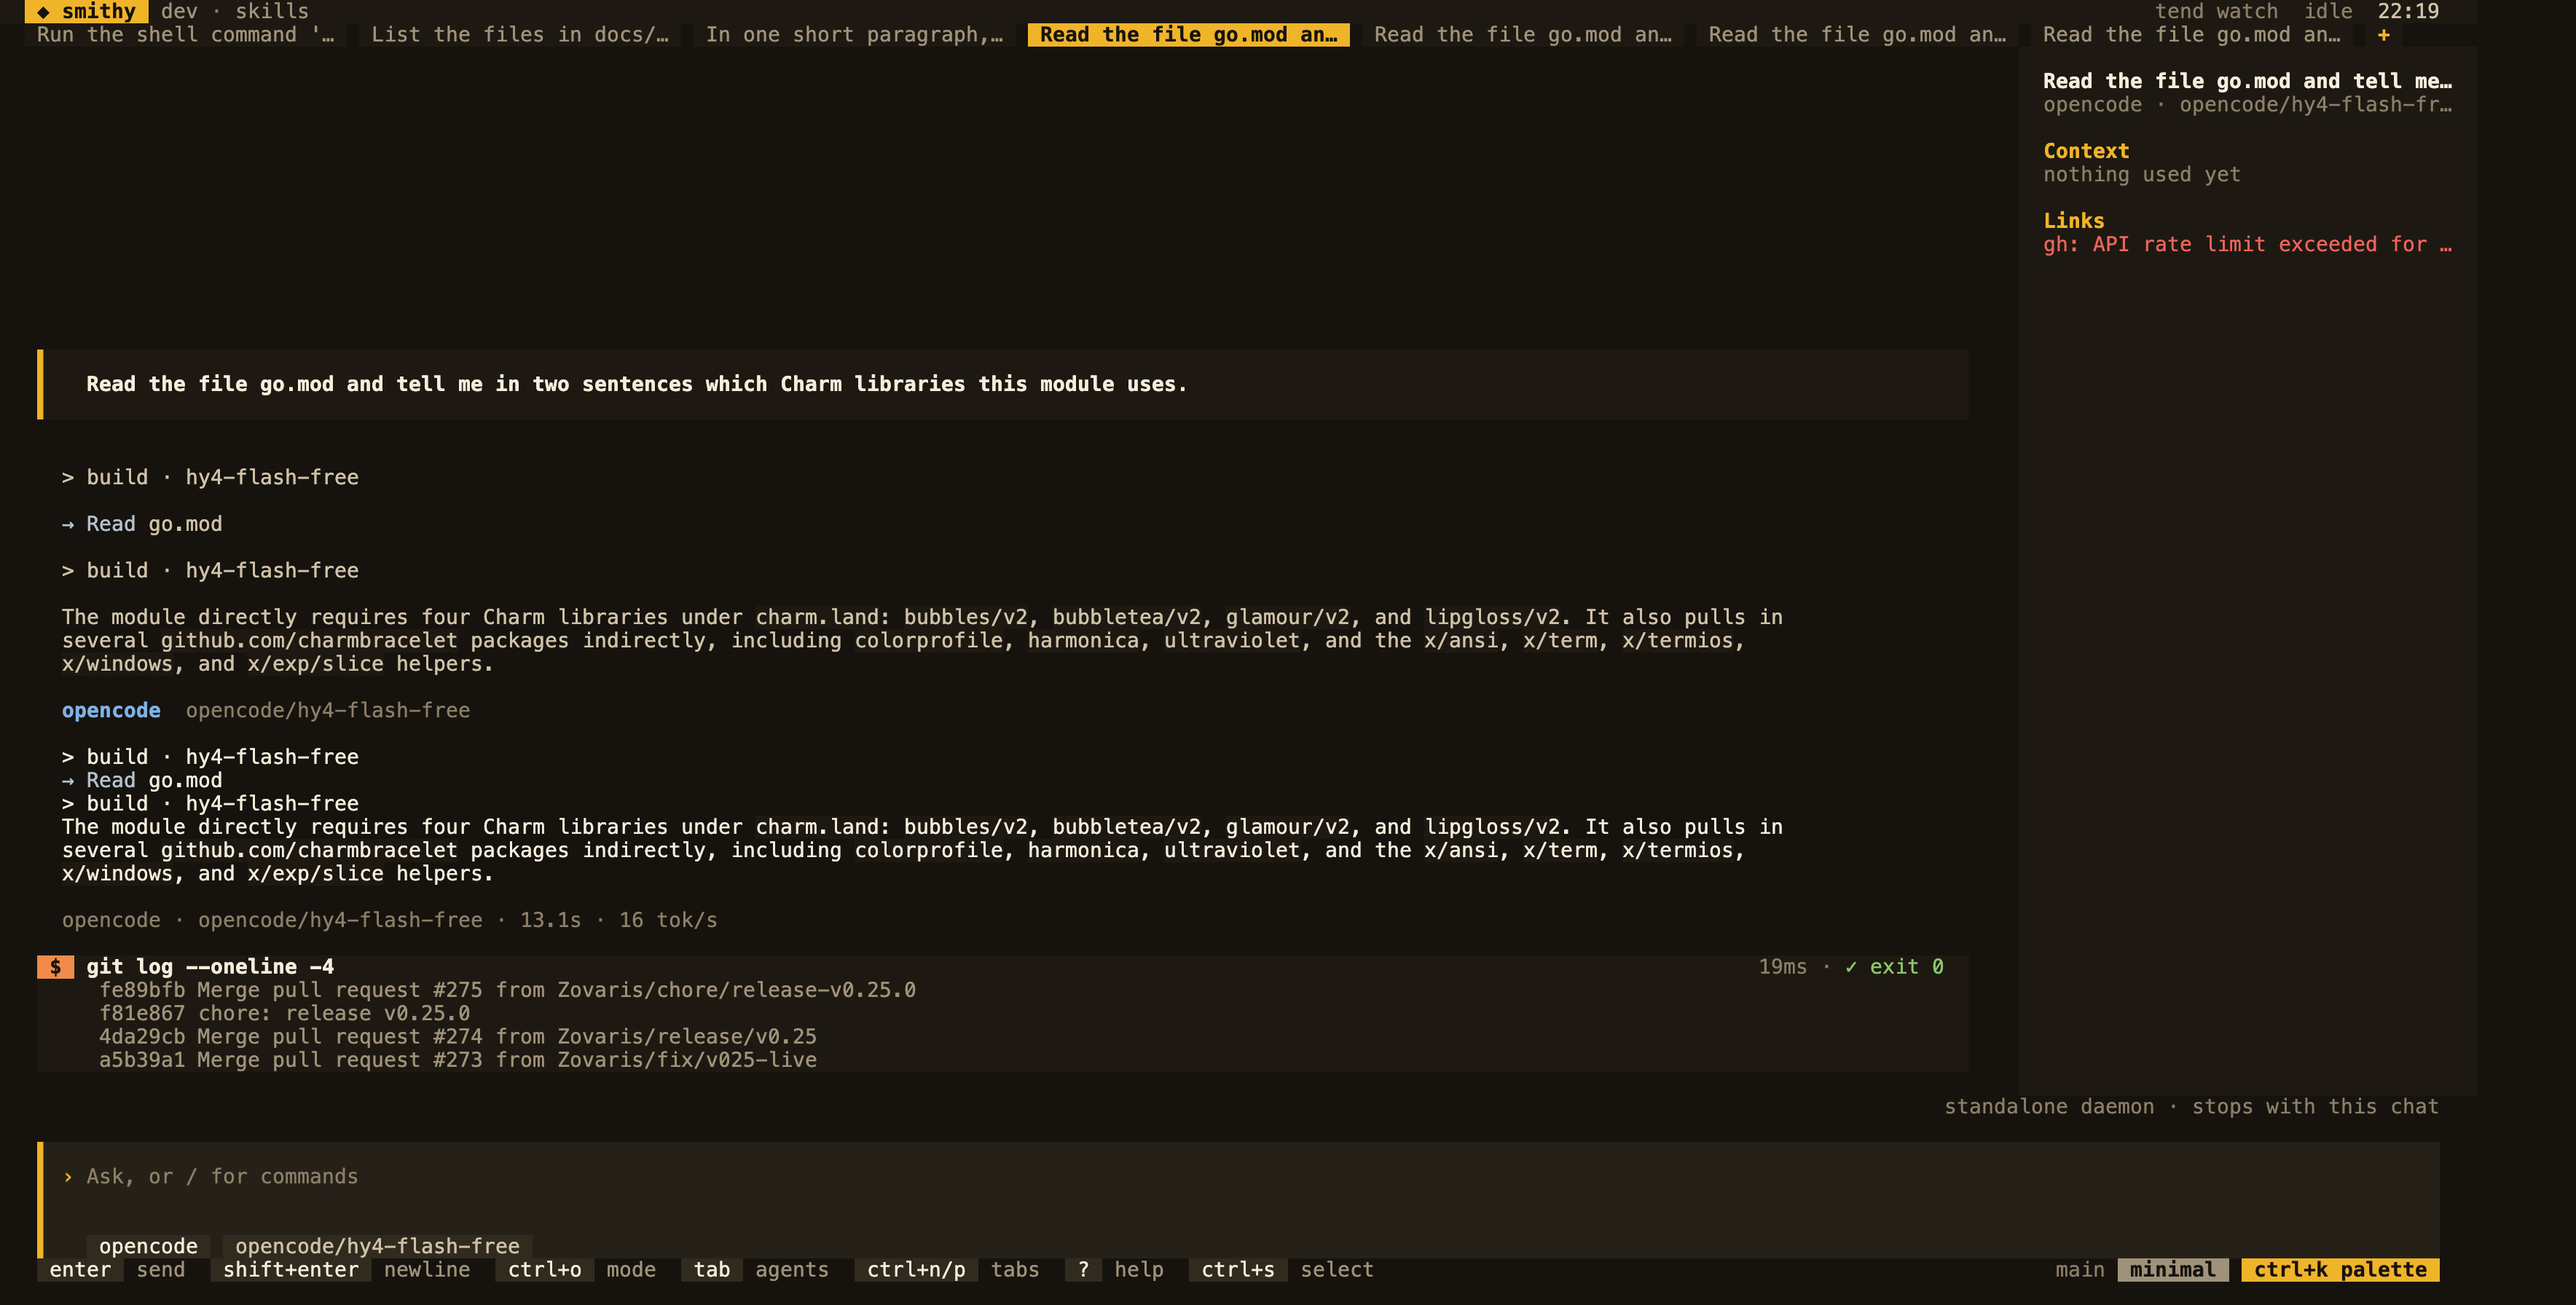
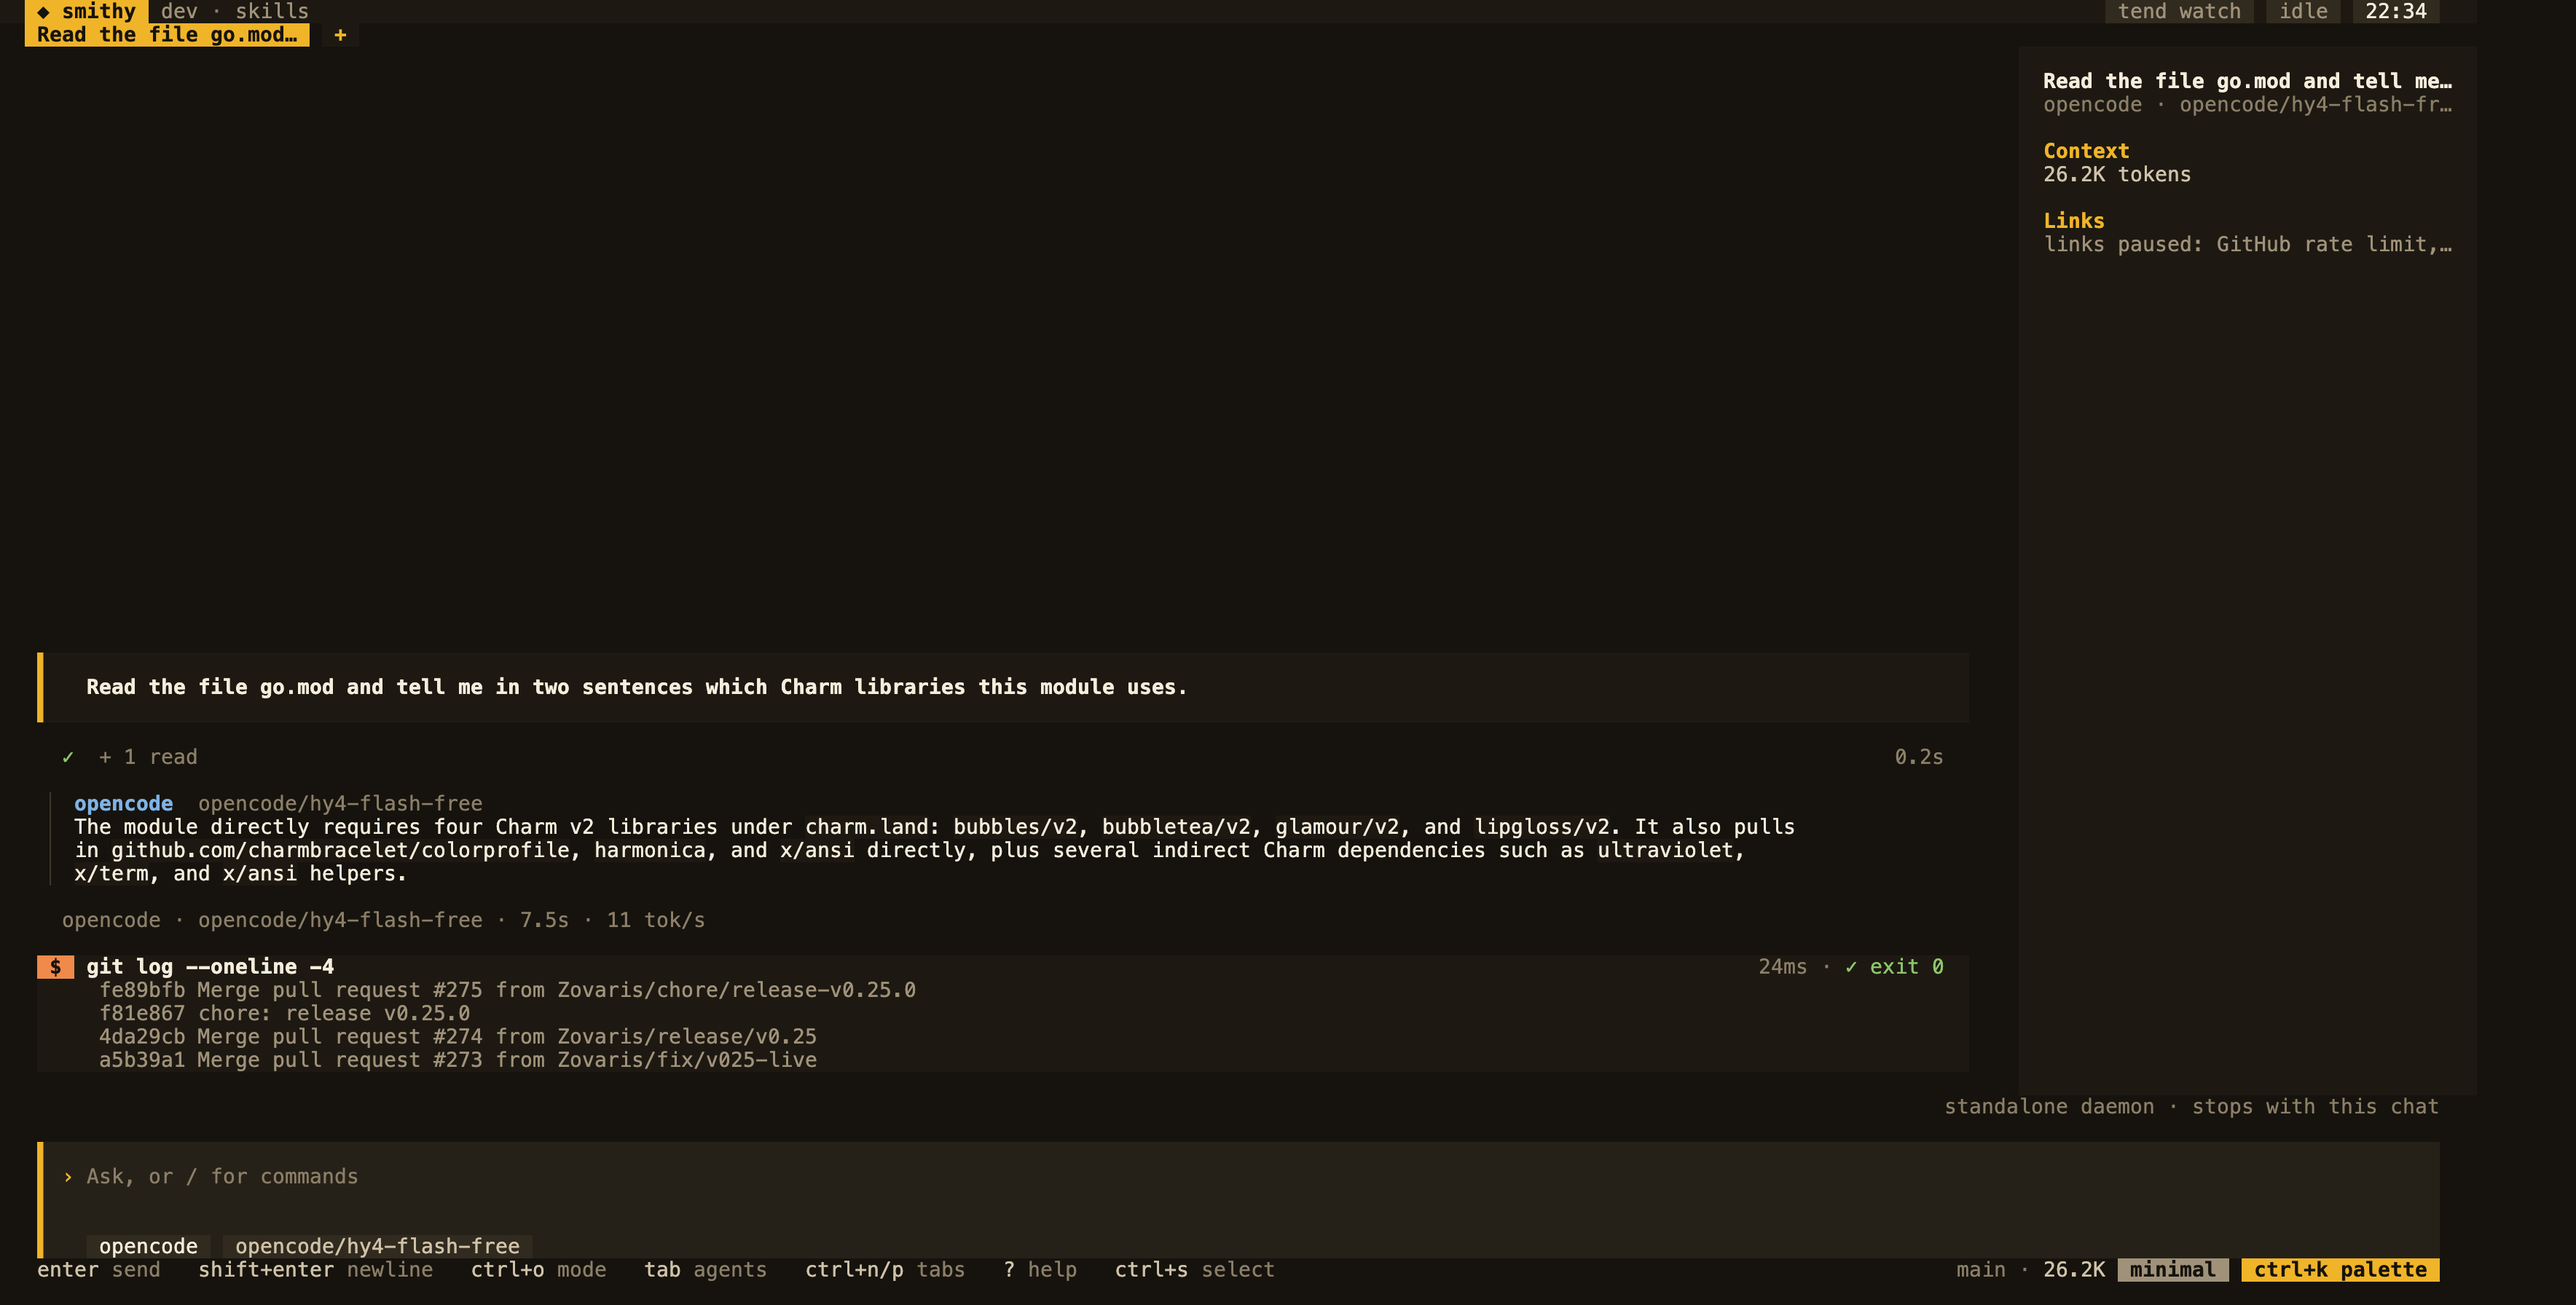
docs: design rules, changelog and screenshots for the Slab polish

diff --git a/docs/design/tui.md b/docs/design/tui.md
@@ -83,6 +83,8 @@ a UTF-8 locale the ASCII set applies.
 ## Layout
 
 Rhythm: 2-col gutter, 3-col indent, 1 blank row between blocks, tool rows tight, 1-col chip gaps.
+An agent answer opens with its name (Info, bold) and the model (Dim) and runs beside a thin Border
+gutter `▏`; text streamed in parts becomes that one answer, never repeated.
 Sidebar (38 cols, Raised) shows only at 120 cols and wider.
 
 80x24:
@@ -175,18 +177,18 @@ Status vocabulary, the only one: `▪` state mark (Ok, Warn, Err, Dim), `▫` of
 
 | Component | Anatomy | States |
 |---|---|---|
-| Header | Raised row; Accent ` ◆ smithy ` block, version and project Dim; right: tend, spinner, clock | default; running (spinner) |
-| Tab chip | ` name ` on Raised | default Muted; focus Strong; active Accent bg, Surface fg, bold; running spinner; waiting Warn `?`; failed `▪` Err |
+| Header | Raised row; Accent ` ◆ smithy ` block, version and project Muted; right: chips on Overlay for tend, state (`idle`, spinner `N running`, Warn `? waiting on you`) and the clock | default; running (spinner); waiting (Warn chip) |
+| Tab chip | ` title ` on Raised; title is the session title without polite openings, cut at a word near 24 cells or middle-ellipsed; `«` `»` when tabs overflow, the active one kept in view | default Muted; active Accent bg, Surface fg, bold; running spinner |
 | User turn | Raised band, `▌` Accent, Strong bold, time Dim right | default |
 | Agent turn | name Info bold, model and effort Dim, body Text | default; running spinner after name |
 | Tool row | `▪ Tool  args` Info, result right | running spinner; done `✓` Ok; failed `✗` Err; disabled Dim |
 | Shell band | Raised, Warn `$` chip, command Strong bold, output Muted, `exit n · t` right | running spinner; ok Ok; failed Err |
 | Ask panel | "Questions", Warn rail, question bold, numbered options with Muted line, "Type your own answer", hints | default; focus row Focus bg + `›`; answered collapses to transcript line |
 | Input | Focus band, Accent rail, Accent `›`; chips: agent, model, effort (Accent), queued (Warn); tokens right | focus; disabled Dim prompt while a modal is open |
-| Footer | key chip (Overlay, Strong) + Muted label; right: mode chip, Accent `ctrl+k palette` | default |
-| Sidebar | 38 cols Raised; title Strong bold; headings Accent bold; meter Accent / Overlay; spend label Muted, value Strong; links `▪ #n title` + checks line; queue numbered in Accent | default only |
+| Footer | keys in Text, labels Dim, three spaces apart, no backgrounds; right: mode chip, Accent `ctrl+k palette` chip | default; select mode (Warn) |
+| Sidebar | 38 cols Raised; title Strong bold; headings Accent bold; meter Accent / Overlay; spend label Muted, value Strong; links `▪ PR #n title` + `ci ✓ · state`; a links error is one Muted line, e.g. `links paused: GitHub rate limit, retry 14:05`, never the raw error | default only |
 | Modal | Raised body, full-width Accent title bar (title Surface bold, `esc` right), shade, dim backdrop | open, closing (spring) |
-| /config | `/ filter settings` on Focus; groups Look, Agent, Tend, Serve, Notify, Accent heading + Border rule; name left, value right | focus row: Focus bg, rail, all options as chips, `‹ value ›`; edited Accent `•`; disabled Dim; theme row as accent swatches; description on Overlay |
+| /config | `/ filter` on Focus; a curated list of about 20 settings with human labels (Theme, Transcript, Sidebar, Effort, Tend, Serve…) in Look, Agent, Tend, Serve, Notify, then `Advanced (N)` collapsed; filtering searches all of them; booleans read on/off; the config key shows only in the description footer | focus row: Focus bg, rail, every option as a chip, `‹ value ›`; changed Accent `•`; theme row as accent swatches |
 | /usage | period chips; tiles spent, runs, tokens out, cache read on Overlay with coloured top tick; 30-day Accent bars (today Strong); by agent and by model with cost bars; no-agent group last, Muted italic; token bar cache Warn, in Info, out Ok | active period Accent chip |
 | Doctor | same modal frame, one row per check in the status vocabulary | ok, warn, failed |
 

diff --git a/CHANGELOG.md b/CHANGELOG.md
@@ -4,6 +4,9 @@ One version for the whole repo, tagged `vX.Y.Z` (semver). Every change to a skil
 **Unreleased** first and moves into a version when it is tagged. Each version opens with short,
 plain notes for people (`### Highlights`, `### New`, `### Fixed`): what changed for them, in a
 sentence each. The technical bullets go under `### Details`
+- The daemon runs opencode with `--format json` (`AGENT_ARGS`) and reads it like claude's stream (`opencode_stream.go`): text parts, finished tool calls as `session_tool` events, step tokens and cost as usage; the reply is the text parts. The TUI adopts streamed parts as the agent's answer when the final message matches them.
+- Links: a GitHub rate-limit error pauses GitHub calls for 15 minutes (`Linker.limited`), keeps the last PRs and GitHub issues, and reports `links paused: GitHub rate limit, retry HH:MM`.
+
 - TUI "Slab" design (docs/design/tui.md, docs/design/web.md): flat surfaces, square corners, no box frames; header as an accent block, tabs as chips with a braille spinner on running sessions, user messages on the raised tier behind a `▌` rail, tool rows `▪ Name arg … ✓ stat`, shell blocks on the raised tier with a `$` chip, the composer on the focus tier with agent/model/effort chips, key chips in the footer, a raised sidebar with a flat context meter and `ci ✓/✗/⠹` badges. Status glyphs are squares (`▪ ▫`) everywhere; circles are gone (kit glyphs `On/Half/Off`, `Theme.Spinner`).
 - Modals (`floatBox`, `/config`, `/usage`) lose the border: accent edge or title bar, rows on the raised tier, the selection on the focus tier behind an accent rail, the footer on the overlay tier, a one-cell offset shade (`Theme.Shade`) and a dimmer backdrop. Group headings render in sentence case.
 - Motion uses one harmonica spring: a modal rises into place as it opens, a changed `/config` value settles, `/usage` bars grow in; `ui.reduce_motion` turns it off.
@@ -28,6 +31,9 @@ part above `### Details`.
 
 - `/config` opens every setting in one modal: grouped, filtered as you type, ←→ changes a value, with what the focused setting does and its default.
 - `/usage` is a dashboard: headline numbers, spend (or tokens) per day for 30 days, the split by agent and model with bars, and the token mix. Runs from before agents were recorded read "earlier runs, agent not recorded" instead of "unknown", in the web too.
+- opencode sessions show one answer with their tool calls as tool rows, instead of the reply twice with its raw banner lines.
+- The sidebar no longer shows GitHub's raw rate-limit error: links pause for 15 minutes and say when they retry.
+- `/config` shows about 20 settings by name (Theme, Sidebar, Effort, Tend, Serve…), booleans as on/off, and the rest under Advanced; tab titles are short and scroll with « » when they overflow.
 - A question waiting on you opens as a Questions panel above the input, each option with its description; the transcript keeps "Asked 1 question" and your answer.
 
 - Workflows: steps run a command, ask an agent (yes/no, a choice or JSON), branch, set variables, pick JSON fields, loop, ask you, notify you, call another workflow, make HTTP calls with stored keys, run in parallel, wait, work with GitHub and files in allowed folders, start a chat session, smelt or warden, fan out an agent per item, judge work against criteria and repeat until a check passes. Every step can retry, time out, skip or recover. Steps that change things need the workflow's `allow_write`; opening or merging a PR and starting warden need your yes first.
